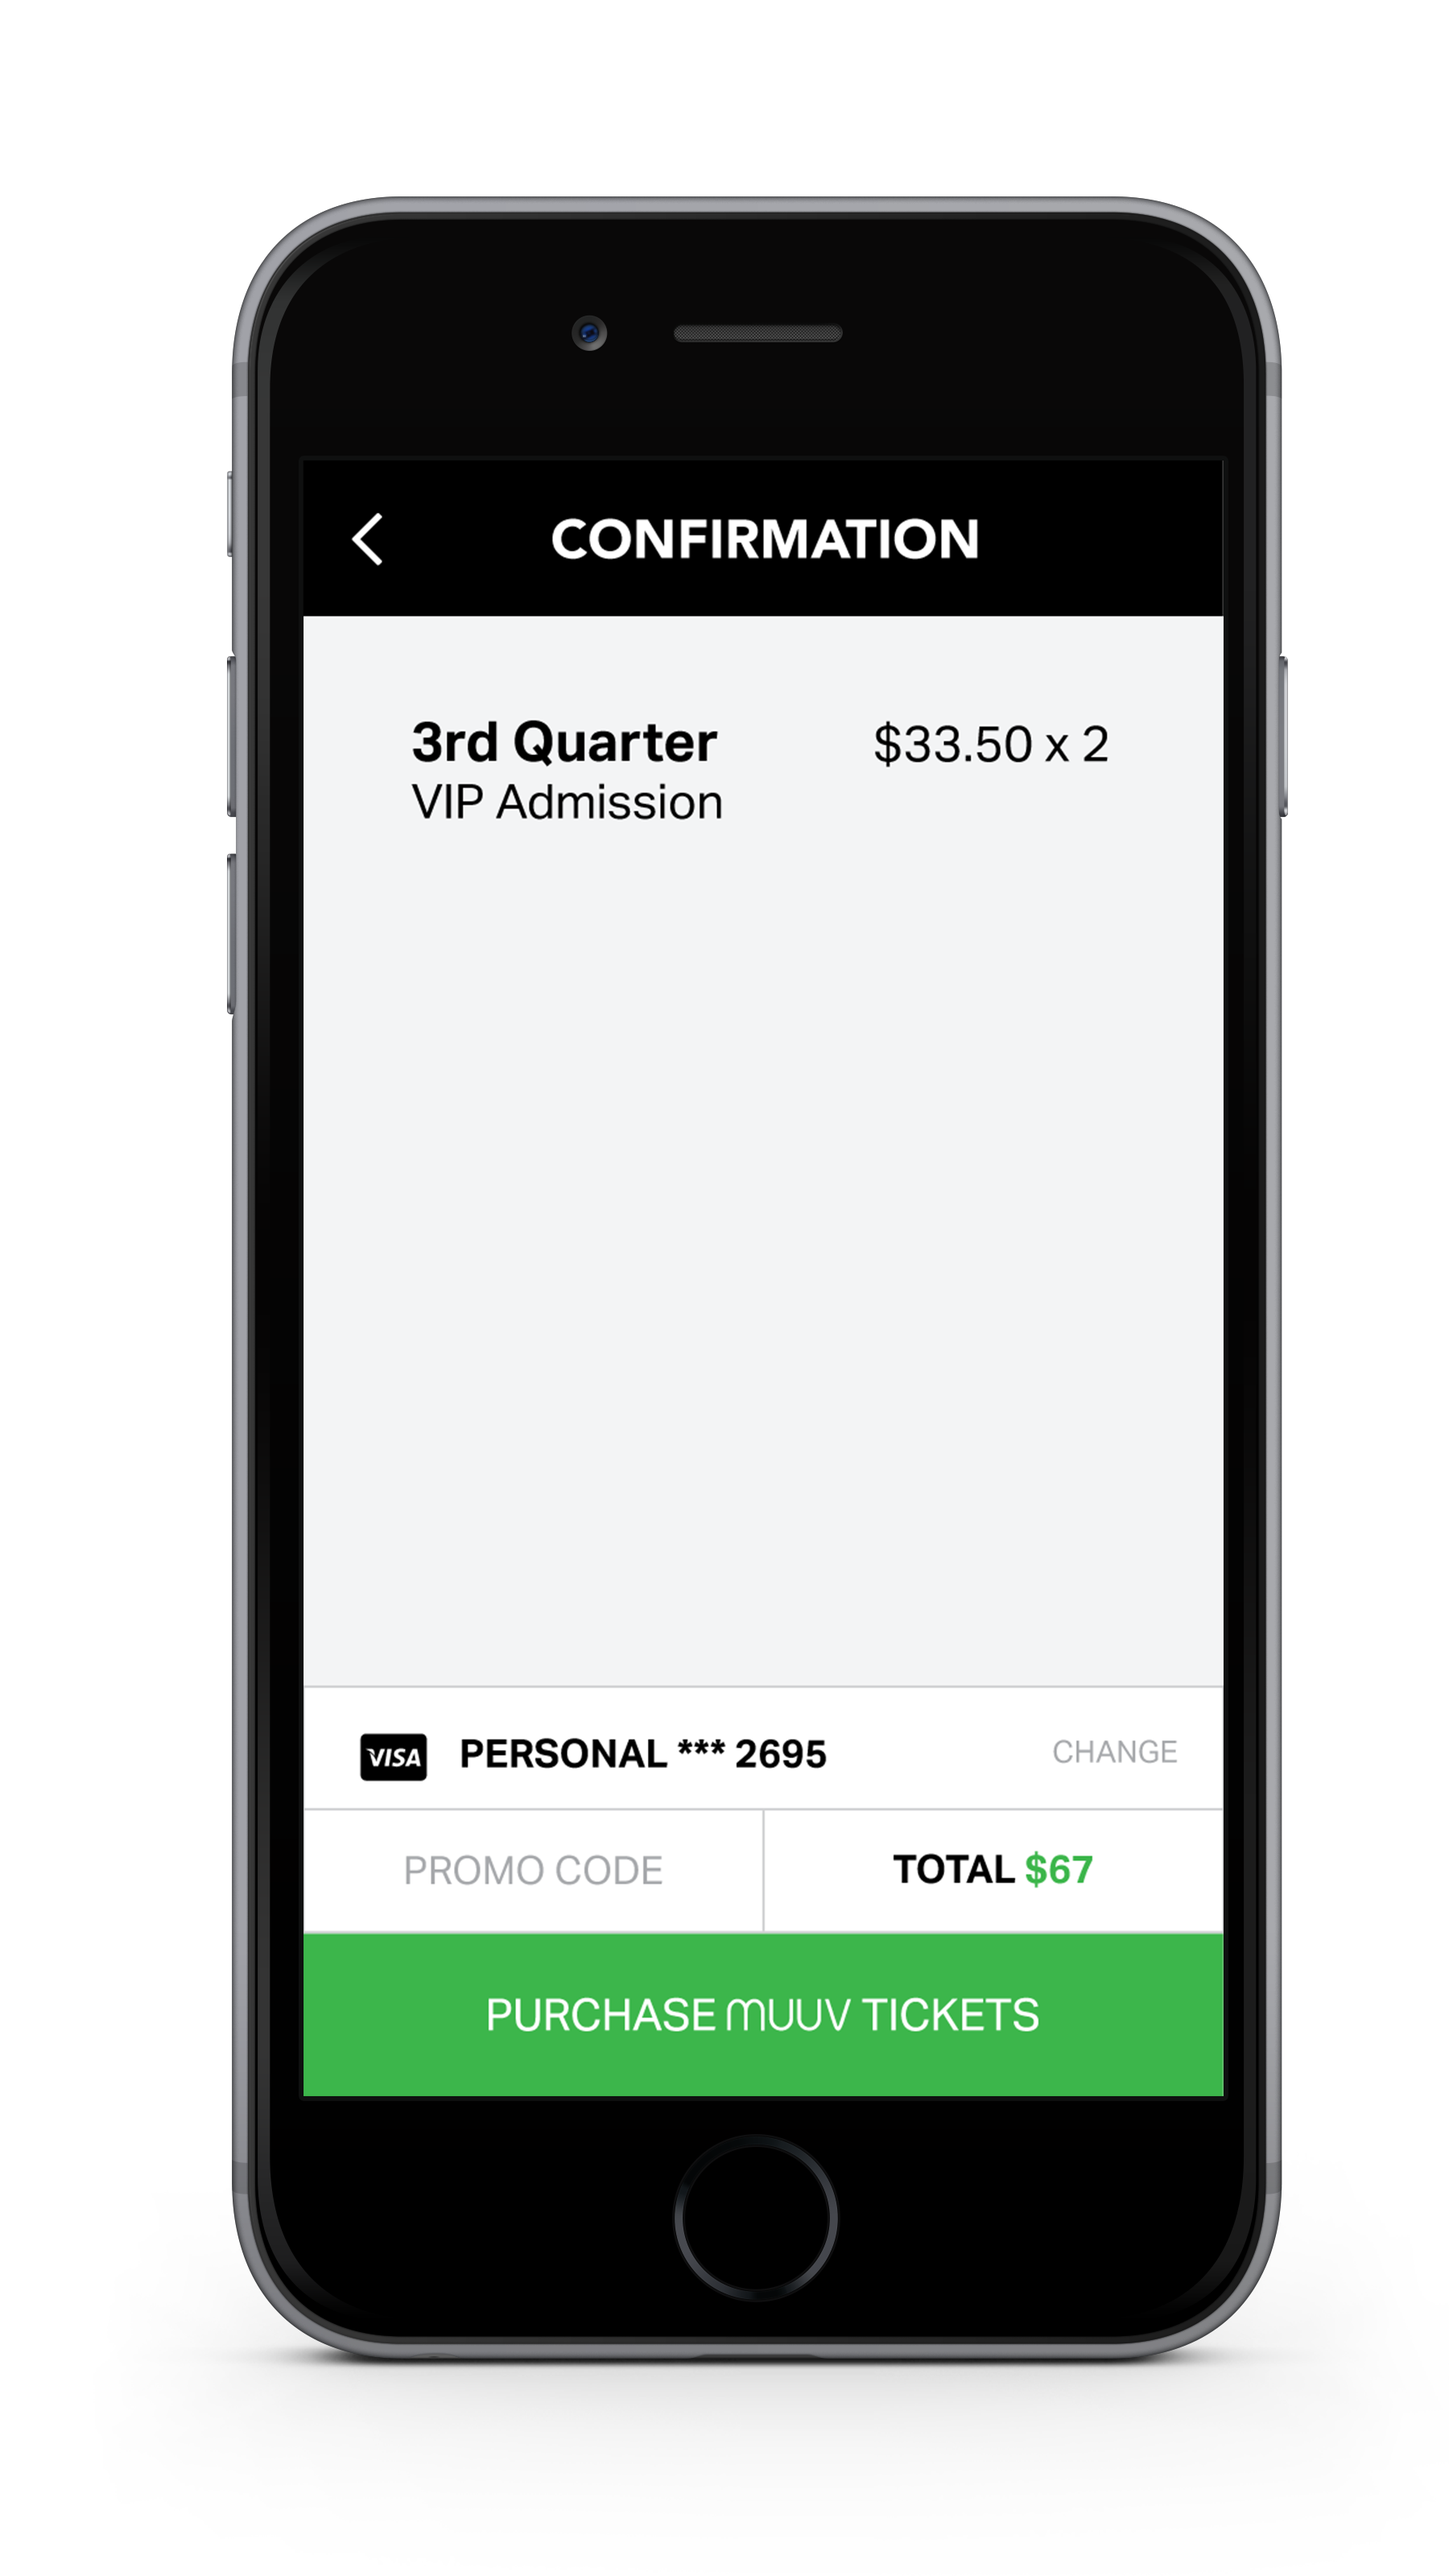
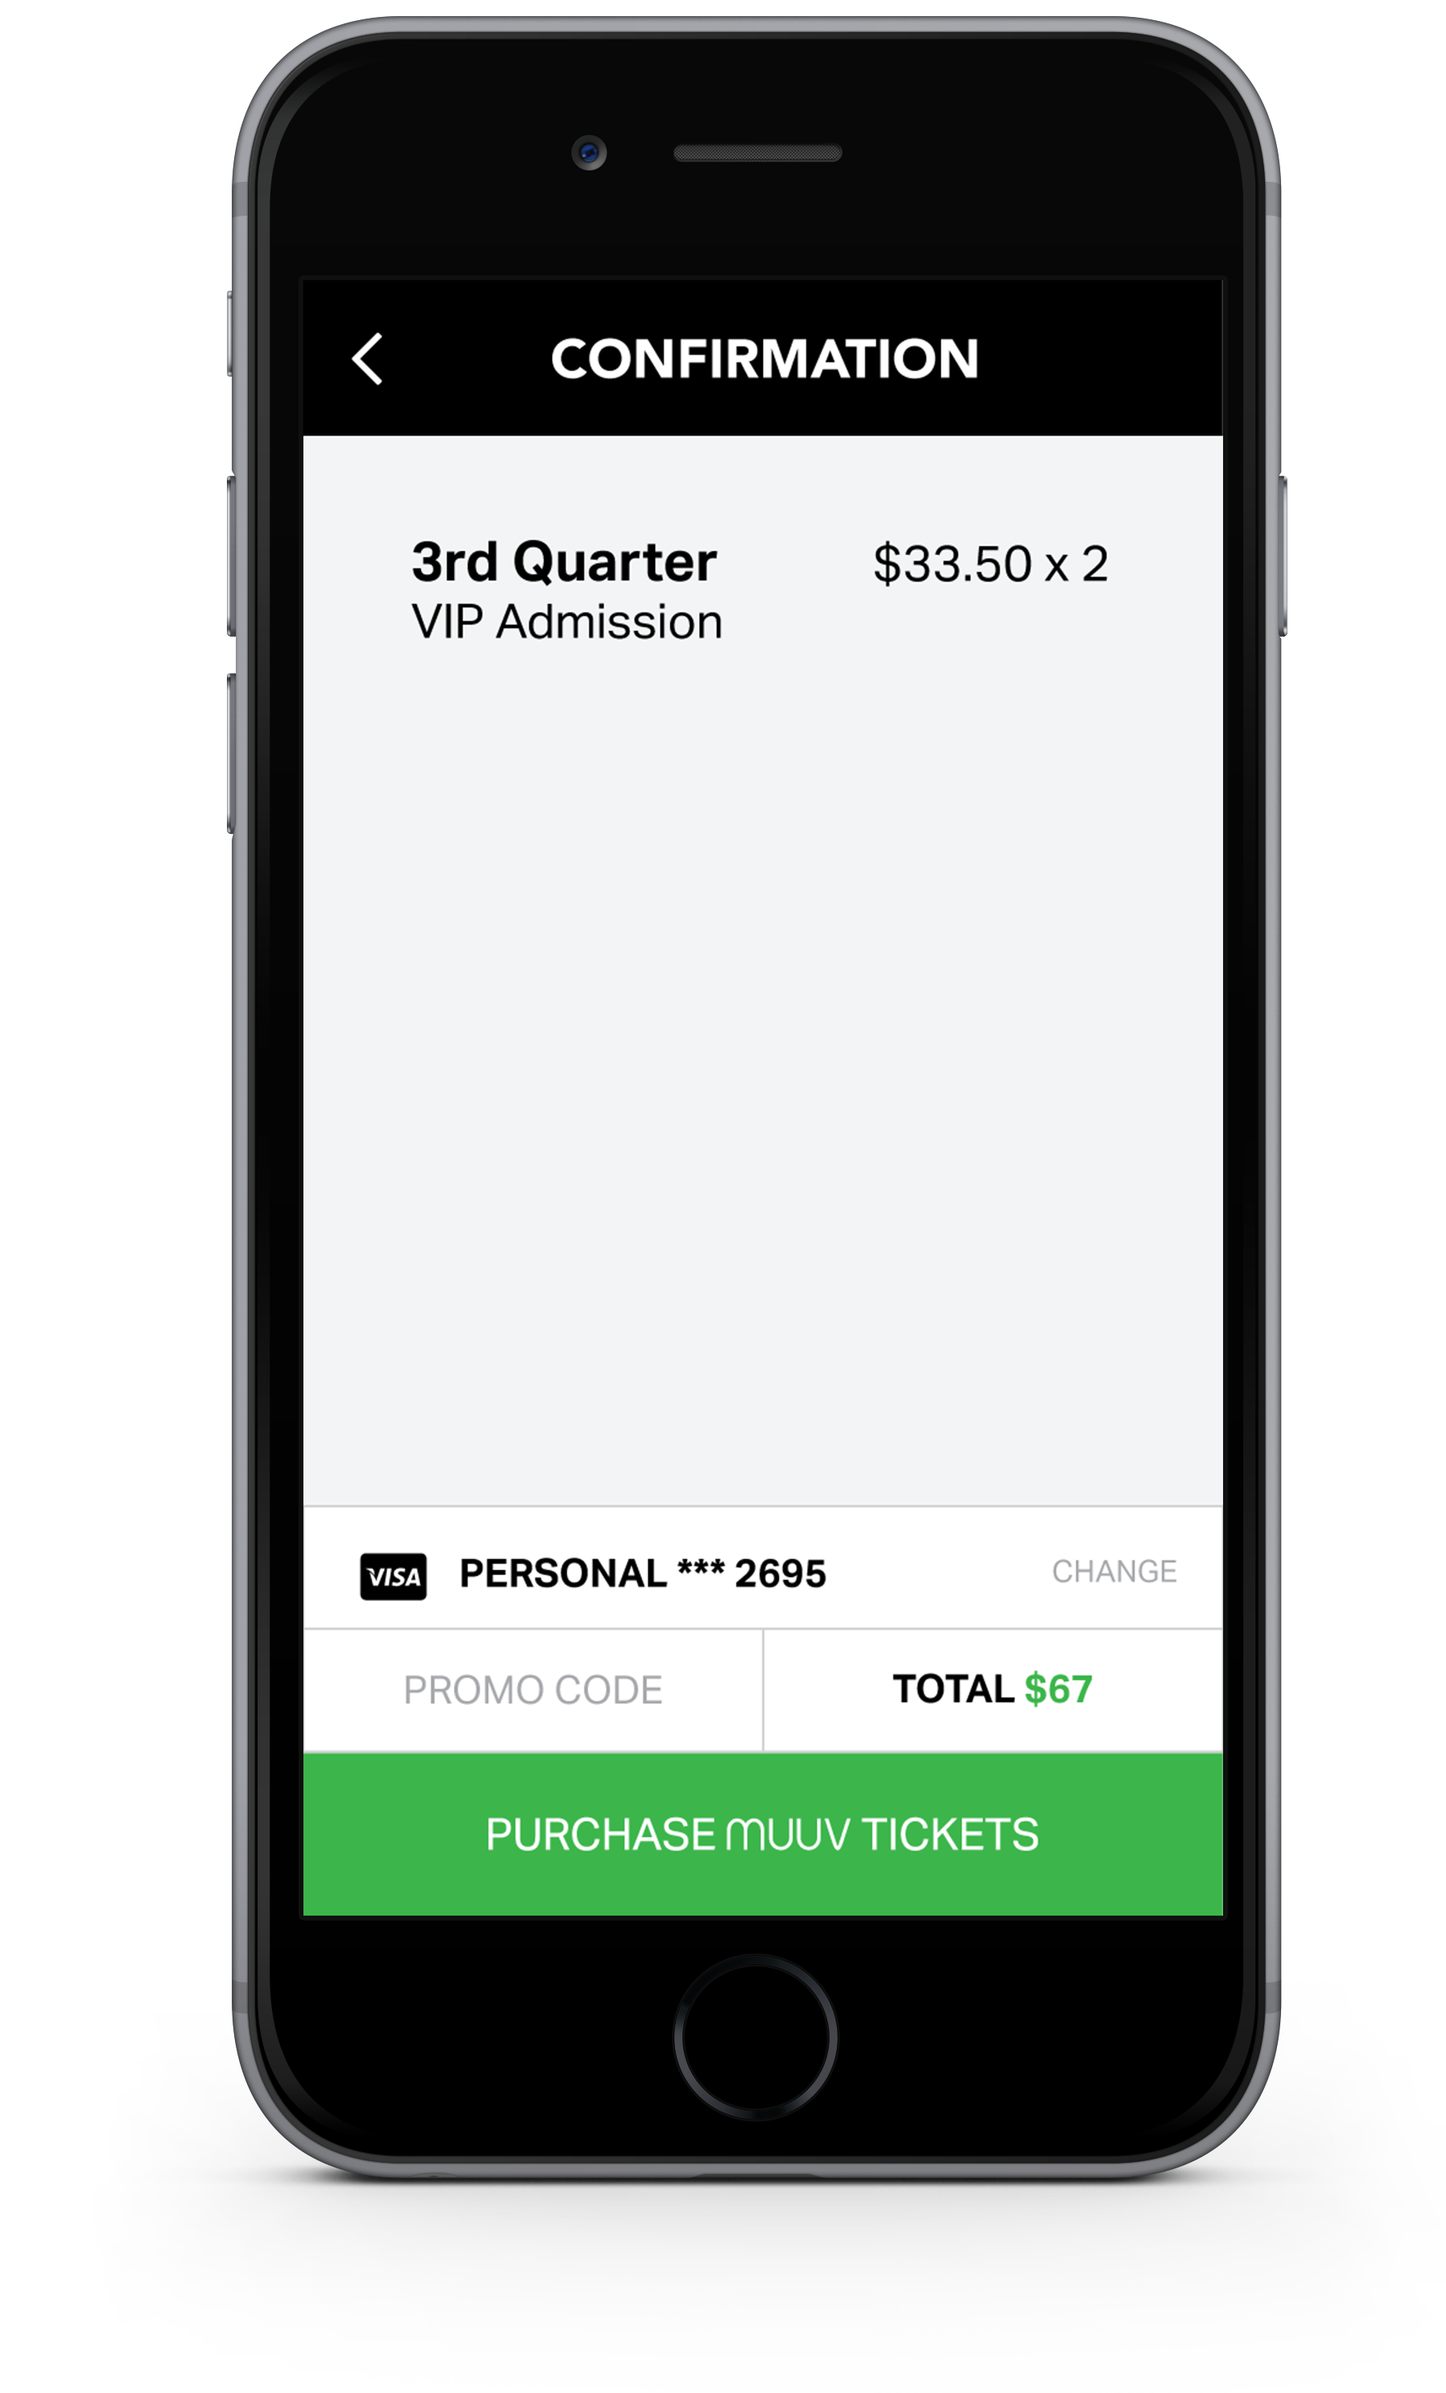
cropping screenshots

diff --git a/app/elements/screenshot-page/screenshot-page.html b/app/elements/screenshot-page/screenshot-page.html
@@ -54,9 +54,11 @@ subject to an additional IP rights grant found at http://polymer.github.io/PATEN
         color:var(--bg-dark-grey);
       }
       h2{
+        font-size: 2.7em;
         margin-top: 48px;
         text-align: center;
         font-family: 'aktivgrotesk';
+        color: var(--bg-dark-grey);
       }
     </style>
     <!-- MEDIA QUERY -->
@@ -80,25 +82,25 @@ subject to an additional IP rights grant found at http://polymer.github.io/PATEN
       <section class='layout vertical center'>
         <span class='flex'></span>
         <h2>EVENT STREAM</h2>
-        <iron-image src="../../images/screenshot-page/streamiphone.png" height='675' width='350' preload sizing="contain" class='self-center'></iron-image>
+        <iron-image src="../../images/screenshot-page/streamiphone.png" height='622' width='350' preload sizing="contain" class='self-center'></iron-image>
         <span class='flex'></span>
       </section>
       <section class='layout vertical center'>
         <span class='flex'></span>
         <h2>PROFILE</h2>
-        <iron-image src="../../images/screenshot-page/profileiphone.png" height='675' width='350' preload sizing="contain" class='self-center'></iron-image>
+        <iron-image src="../../images/screenshot-page/profileiphone.png" height='622' width='350' preload sizing="contain" class='self-center'></iron-image>
         <span class='flex'></span>
       </section>
       <section class='layout vertical center'>
         <span class='flex'></span>
         <h2>EVENT PAGE</h2>
-        <iron-image src="../../images/screenshot-page/eventpageiphone.png" height='675' width='350' preload sizing="contain" class='self-center'></iron-image>
+        <iron-image src="../../images/screenshot-page/eventpageiphone.png" height='622' width='350' preload sizing="contain" class='self-center'></iron-image>
         <span class='flex'></span>
       </section>
       <section class='layout vertical center'>
         <span class='flex'></span>
         <h2>CHECKOUT</h2>
-        <iron-image src="../../images/screenshot-page/checkoutiphone.png" height='675' width='350' preload sizing="contain" class='self-center'></iron-image>
+        <iron-image src="../../images/screenshot-page/checkoutiphone.png" height='622' width='350' preload sizing="contain" class='self-center'></iron-image>
         <span class='flex'></span>
       </section>
     </neon-animated-pages>
